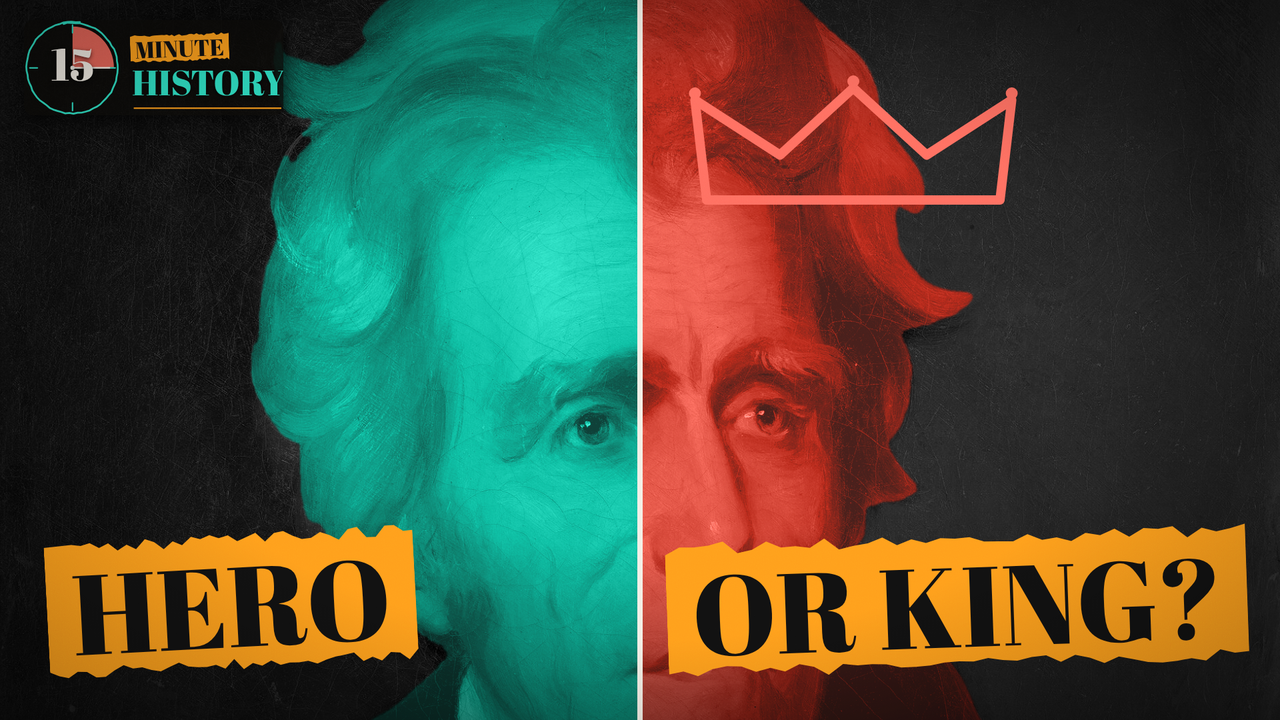
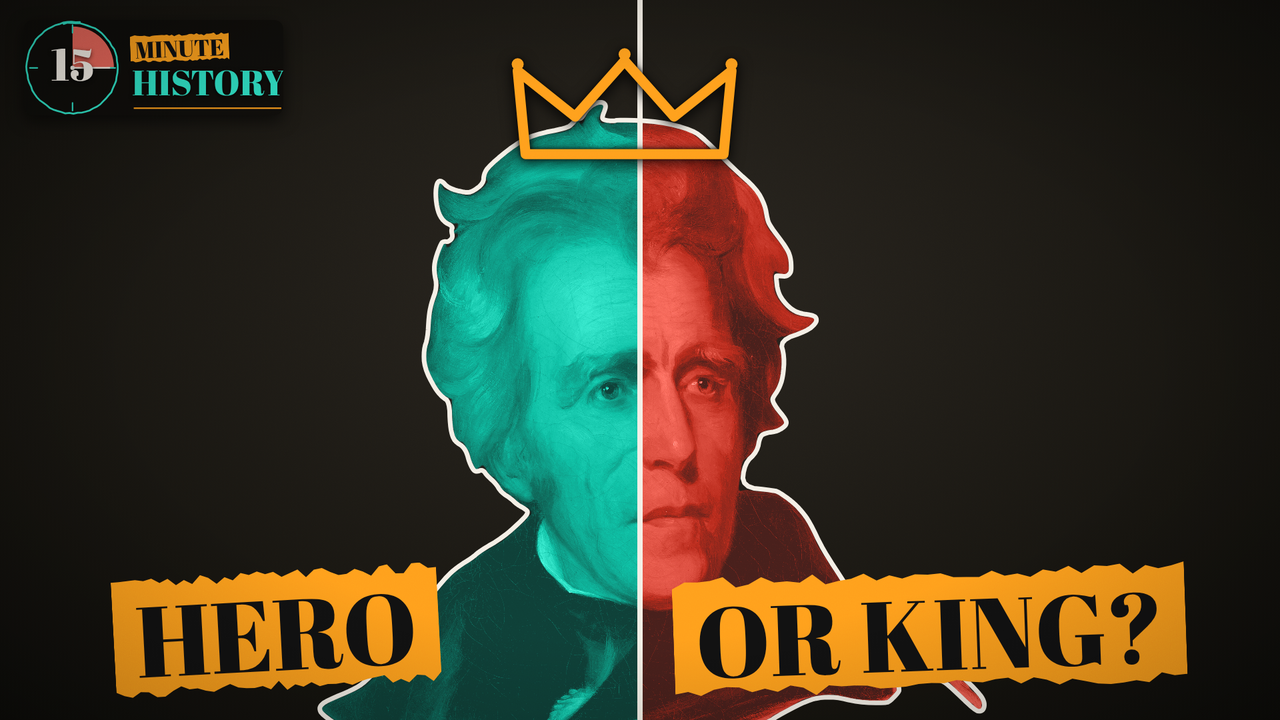
King Andrew thumbnail A: full head in frame, gold crown resting on it, titles clear of the face
Claude-Session: https://claude.ai/code/session_01WhMpZuQowLg6YFJK2XVoZu

diff --git a/video/src/v3/Thumbnail.tsx b/video/src/v3/Thumbnail.tsx
@@ -10,6 +10,7 @@ import {MASKS} from './masks';
 export const THUMB_FRAMES = 150;
 const TEAL = '#2FE0C4';
 const CORAL = '#FF6F61';
+const GOLD = '#FF9F1C';
 const SULLY: [number, number] = [1920, 2288];
 
 /** Channel logo, top-left (YouTube covers the bottom-right with the running time). */
@@ -42,19 +43,30 @@ const SideTint: React.FC<{place: Place; color: string; mid: number; side: 'left'
   );
 };
 
-/** A · Same face, two answers: teal People's President, coral King Andrew with a drawn crown. */
+/** A · Same face, two answers: Jackson cut out on the desk, teal People's President / coral King Andrew,
+ *  a gold crown sized to and resting on his head, titles below the chin so the face stays clear. */
 const ThumbA: React.FC = () => {
-  const place = fill(SULLY, 960, 820, 1.02);
+  const place: Place = {left: 960 - 972 * 0.55, top: 80, scale: 0.55};
+  const S = (x: number, y: number) => [place.left + x * place.scale, place.top + y * place.scale];
+  // Hair top in the source runs about y 145-250 across x 650-1150; the base rests just into it.
+  const [x0, y] = S(660, 275);
+  const [x1] = S(1200, 275);
+  const cut: React.CSSProperties = {WebkitMaskImage: `url(${staticFile(MASKS.sully.alpha)})`, WebkitMaskSize: '100% 100%', maskImage: `url(${staticFile(MASKS.sully.alpha)})`, maskSize: '100% 100%'} as React.CSSProperties;
   return (
-    <AbsoluteFill style={{background: INK, overflow: 'hidden'}}>
-      <Picture src="img/jackson_sully_1845.jpg" place={place} size={SULLY} bw="grayscale(1) contrast(1.25) brightness(0.85)" />
+    <AbsoluteFill style={{background: '#15130f', overflow: 'hidden'}}>
+      <AbsoluteFill style={{background: 'radial-gradient(ellipse at 50% 40%, #2a2620 0%, #16140f 70%, #0d0c09 100%)'}} />
+      <div style={{position: 'absolute', left: place.left, top: place.top, width: SULLY[0] * place.scale, height: SULLY[1] * place.scale, ...cut, filter: 'drop-shadow(0 20px 30px rgba(0,0,0,0.6))'}}>
+        <Picture src="img/jackson_sully_1845.jpg" place={{left: 0, top: 0, scale: place.scale}} size={SULLY} bw="grayscale(1) contrast(1.25) brightness(0.9)" />
+      </div>
       <SideTint place={place} color={TEAL} mid={960} side="left" />
       <SideTint place={place} color={CORAL} mid={960} side="right" />
-      <AbsoluteFill style={{background: 'radial-gradient(ellipse at 50% 45%, transparent 40%, rgba(0,0,0,0.7) 100%)'}} />
+      <Traced paths={MASKS.sully.data.shapes.subject} place={place} at={0} dur={1} width={7} color="#f4efe6" />
       <div style={{position: 'absolute', left: 956, top: 0, width: 8, height: 1080, background: '#f4efe6'}} />
-      <DrawnCrown x0={1060} x1={1500} y={300} h={150} at={0} dur={1} width={14} color={CORAL} />
-      <Highlight text="HERO" x={70} y={800} size={170} at={0} seed={71} rot={-3} />
-      <Highlight text="OR KING?" x={1000} y={800} size={170} at={0} seed={73} rot={-2} />
+      <AbsoluteFill style={{filter: 'drop-shadow(0 0 3px #0d0c09) drop-shadow(0 6px 10px rgba(0,0,0,0.8))'}}>
+        <DrawnCrown x0={x0} x1={x1} y={y} h={125} at={0} dur={1} width={15} color={GOLD} />
+      </AbsoluteFill>
+      <Highlight text="HERO" x={170} y={855} size={150} at={0} seed={71} rot={-3} />
+      <Highlight text="OR KING?" x={1010} y={855} size={150} at={0} seed={73} rot={-2} />
       <Logo />
       <Finish vignette={0.3} />
     </AbsoluteFill>
